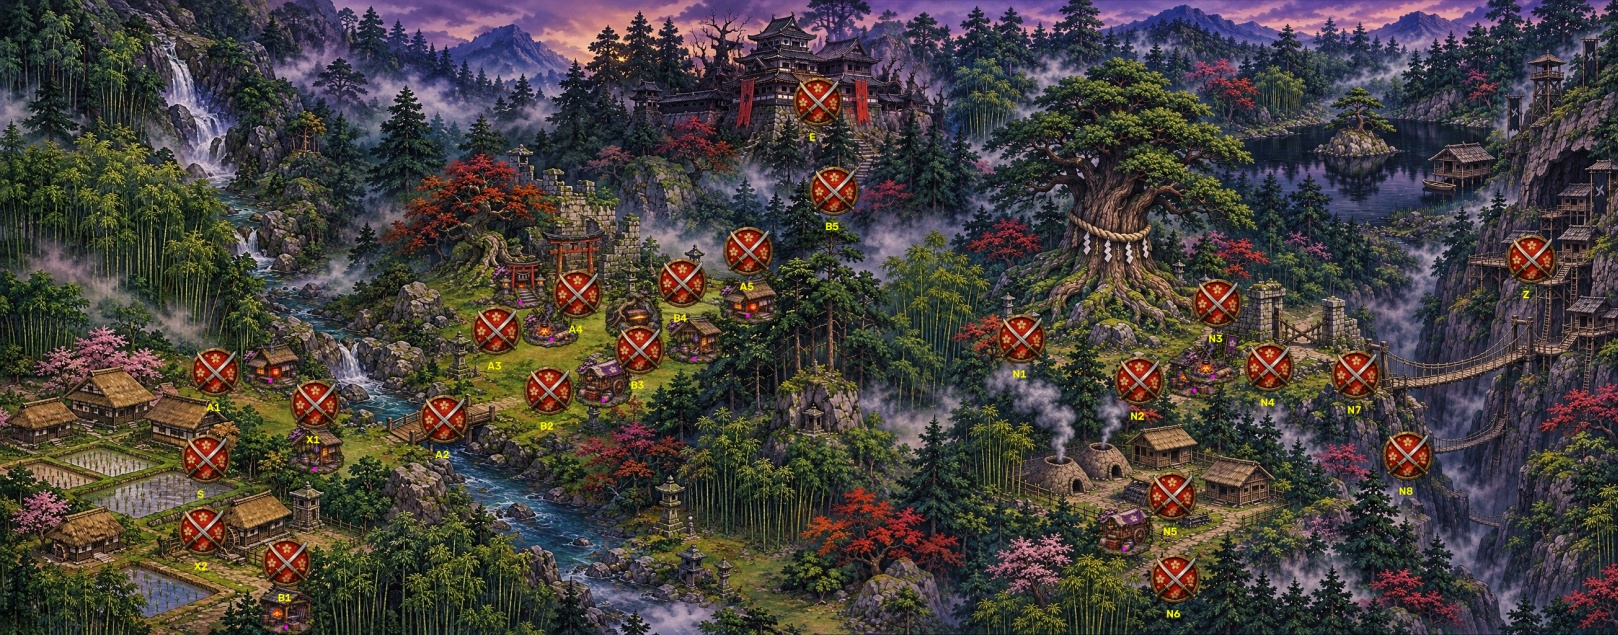
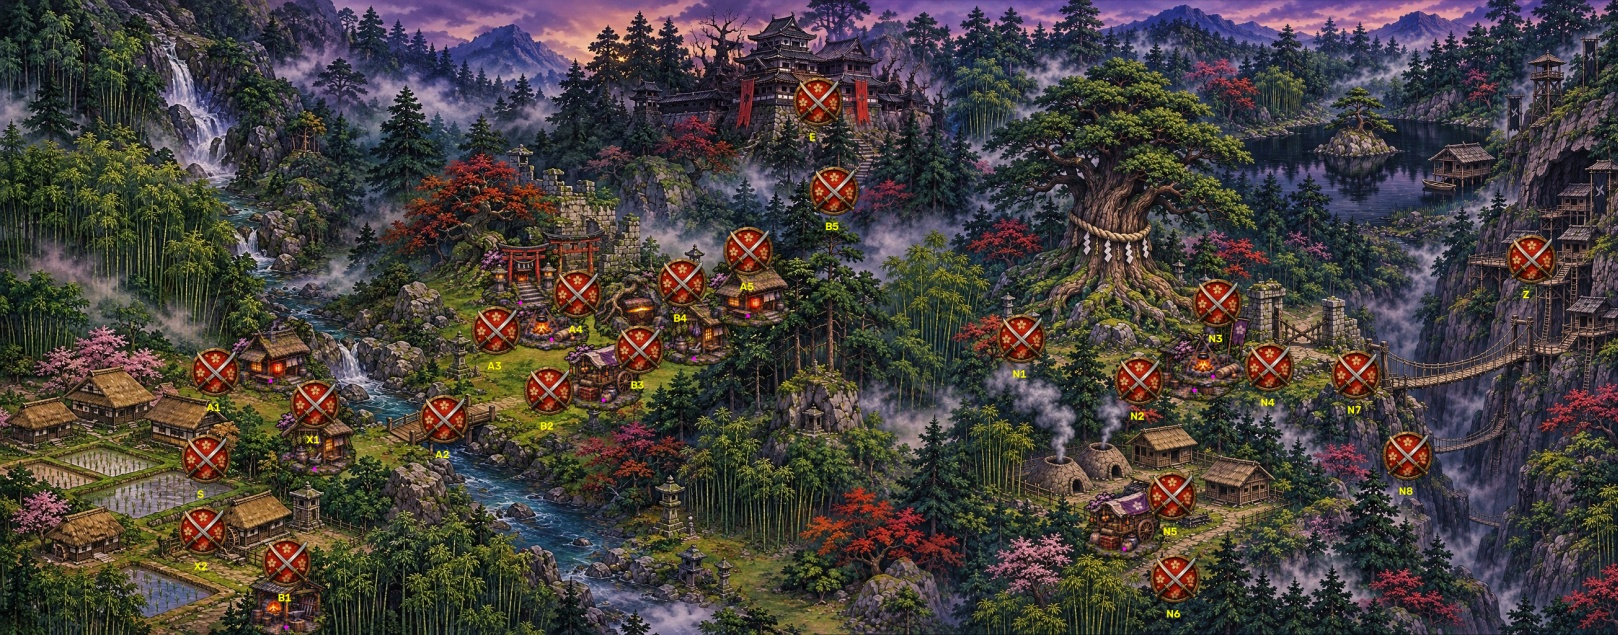
Карта: домики — прежнего размера
Claude-Session: https://claude.ai/code/session_01JqUpyqddoJCmPqfiUgmopw

diff --git a/Assets/_Project/Scripts/Game/MapPads.cs b/Assets/_Project/Scripts/Game/MapPads.cs
@@ -9,7 +9,7 @@ namespace BladePath
     /// </summary>
     public static class MapPads
     {
-        public const float Size = 53f;   // домик в точках карты (было 74 — налезал на соседей и на нарисованное)
+        public const float Size = 74f;   // домик в точках карты (площадки проверены и при этом размере)
         static readonly Vector4[][] Pads =
         {
             new[] { new Vector4(0.1324f, 0.585f, 0.167f, 0.5996f), new Vector4(0.1766f, 0.885f, 0.1766f, 0.9873f), new Vector4(0.3384f, 0.615f, 0.3728f, 0.6299f), new Vector4(0.306f, 0.52f, 0.3406f, 0.5342f), new Vector4(0.3943f, 0.55f, 0.4287f, 0.5645f), new Vector4(0.356f, 0.462f, 0.3215f, 0.4766f), new Vector4(0.4208f, 0.445f, 0.392f, 0.5283f), new Vector4(0.462f, 0.395f, 0.4621f, 0.4971f), new Vector4(0.7034f, 0.5996f, 0.7379f, 0.6143f), new Vector4(0.7234f, 0.7812f, 0.6946f, 0.8643f), new Vector4(0.7839f, 0.5781f, 0.7494f, 0.5928f), new Vector4(0.1942f, 0.636f, 0.1943f, 0.7383f) },

diff --git a/tools/map_extend/gen_pads.py b/tools/map_extend/gen_pads.py
@@ -28,7 +28,7 @@ namespace BladePath
     /// </summary>
     public static class MapPads
     {
-        public const float Size = 53f;   // домик в точках карты (было 74 — налезал на соседей и на нарисованное)
+        public const float Size = 74f;   // домик в точках карты (площадки проверены и при этом размере)
         static readonly Vector4[][] Pads =
         {
 %s

diff --git a/tools/map_extend/pick_pads.py b/tools/map_extend/pick_pads.py
@@ -9,6 +9,6 @@ out={}
 for r,m in D.items():
     W=m['width']; sp={n:(x*W,y*1024) for l in m['spots'] for n,x,y in l}
     for n,x,y in EX[r]: sp[n]=(x*1536,y*1024)
-    out[r]={n:[round(sp[n][0]+OFF[k-1][0]),round(sp[n][1]+OFF[k-1][1]),0.72] for n,k in PICK[r].items()}
+    out[r]={n:[round(sp[n][0]+OFF[k-1][0]),round(sp[n][1]+OFF[k-1][1]),1.0] for n,k in PICK[r].items()}
 json.dump(out,open('tools/map_pads.json','w'),indent=1)
 print({r:len(v) for r,v in out.items()})
